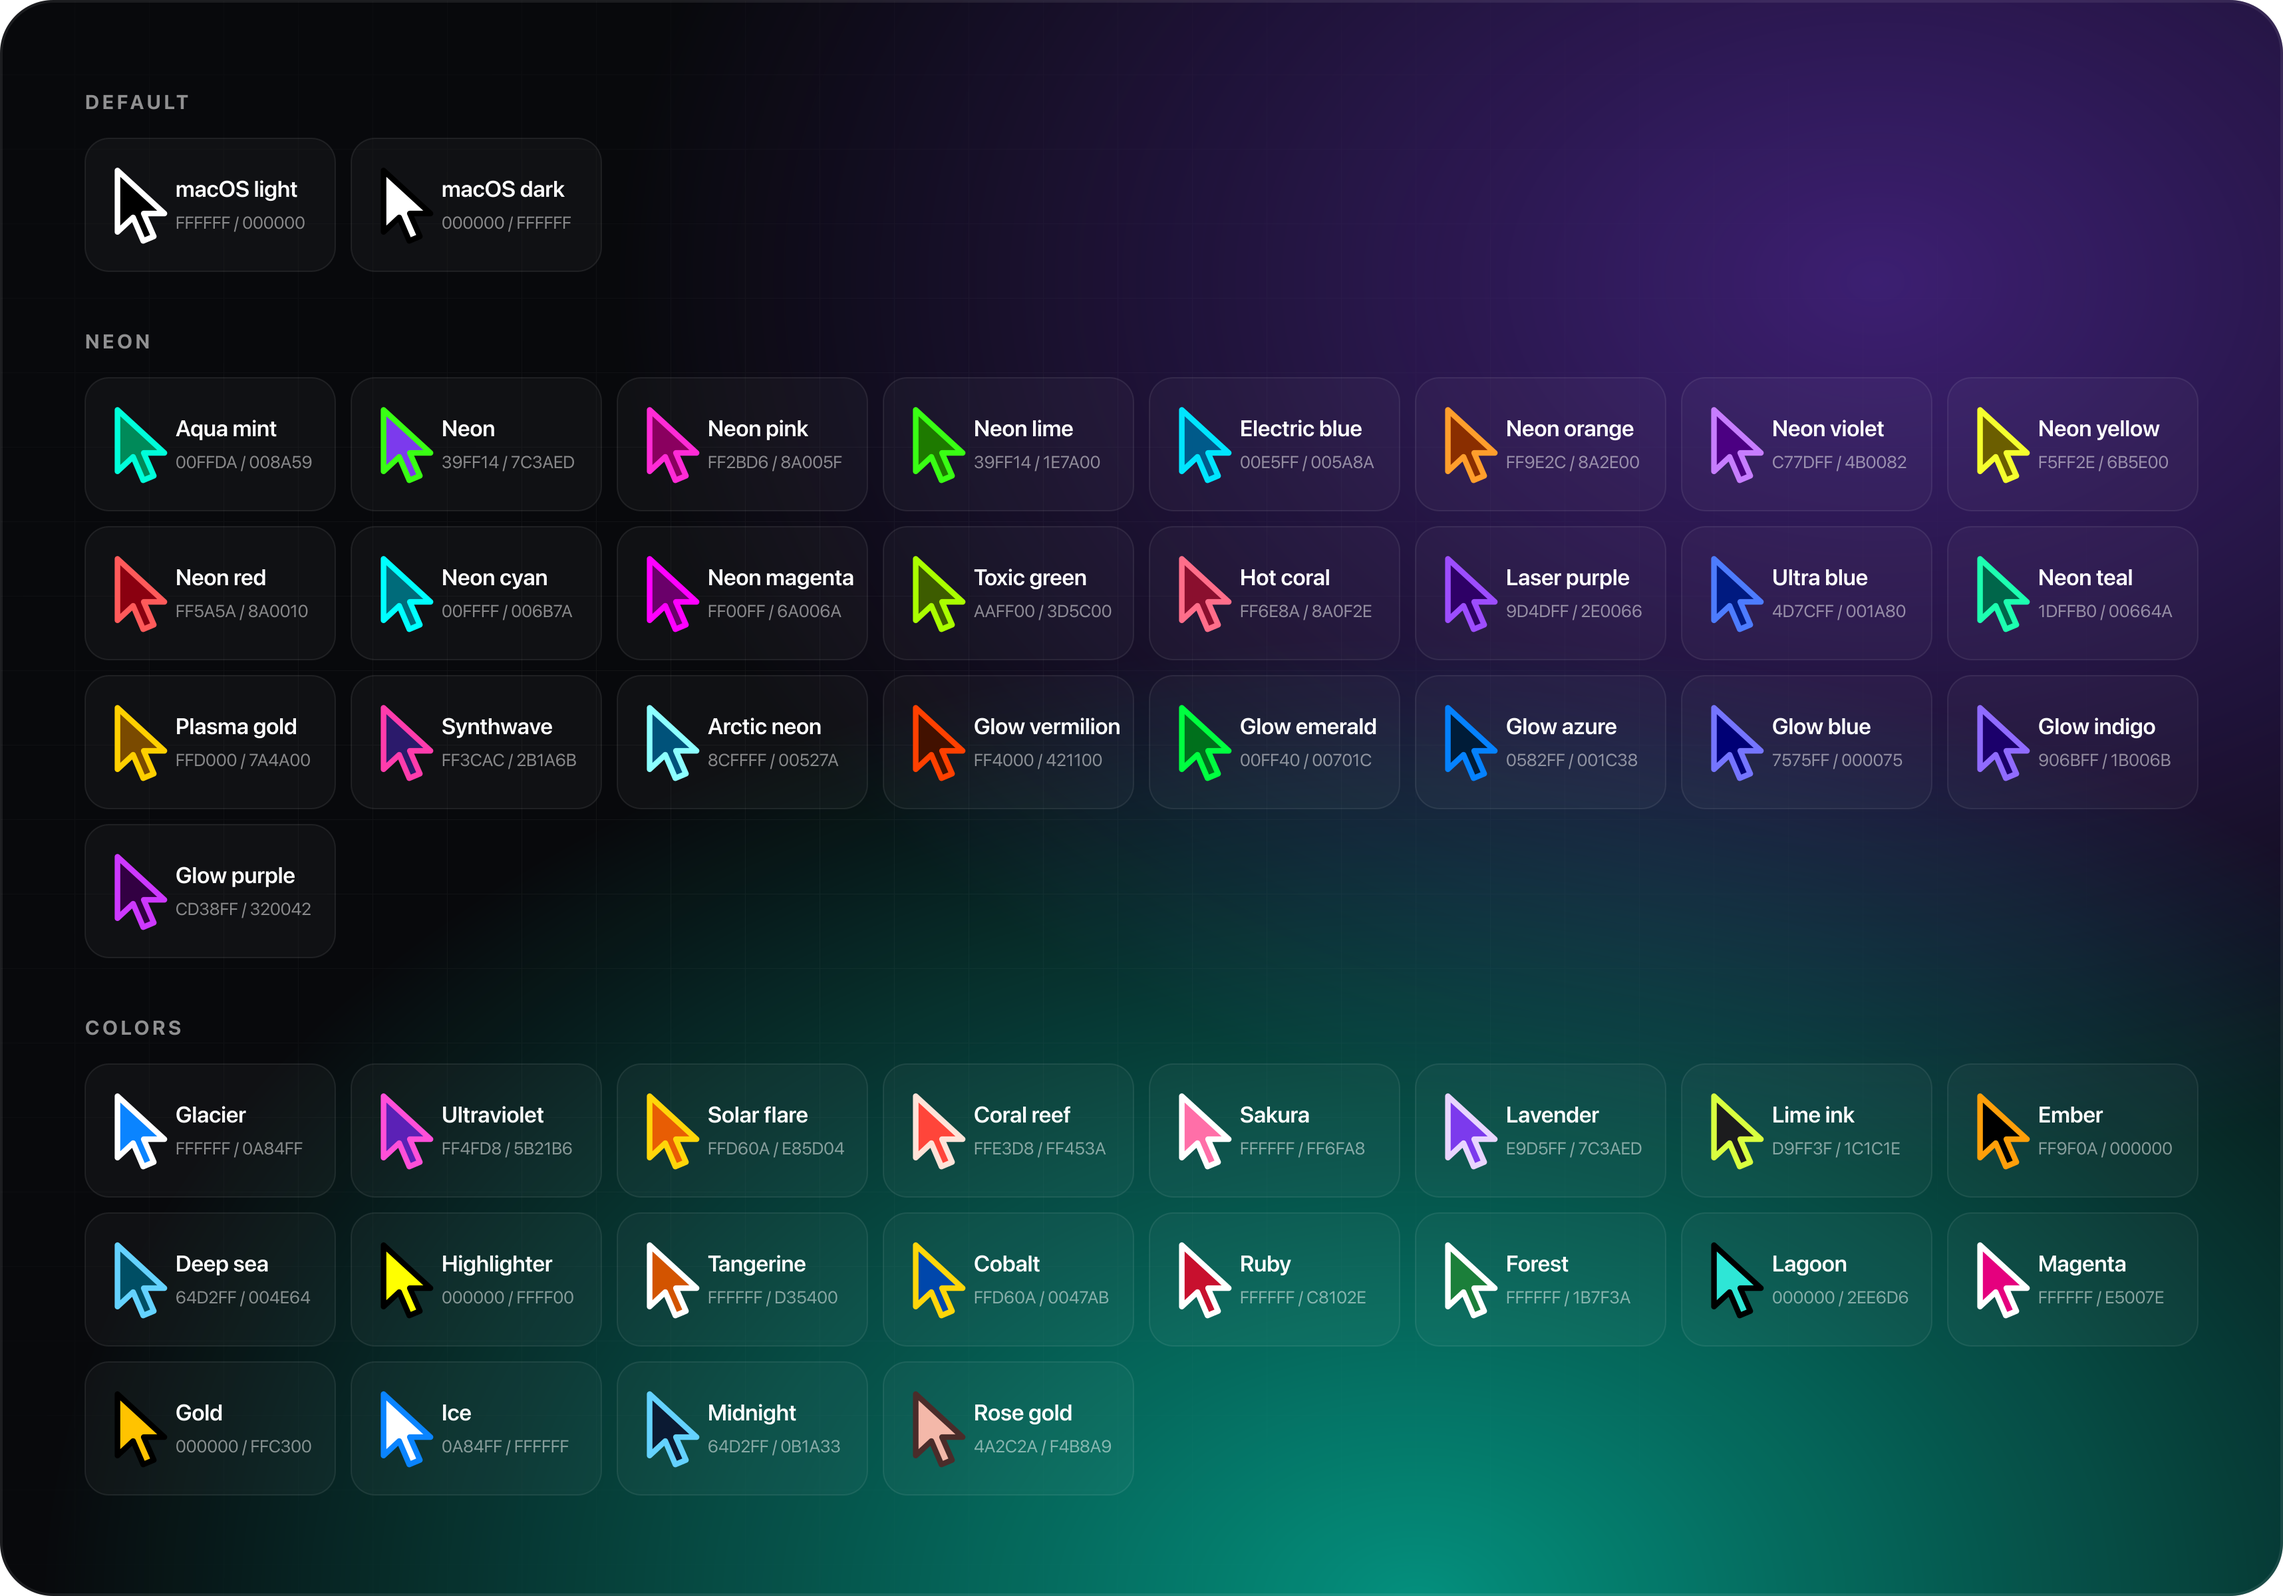
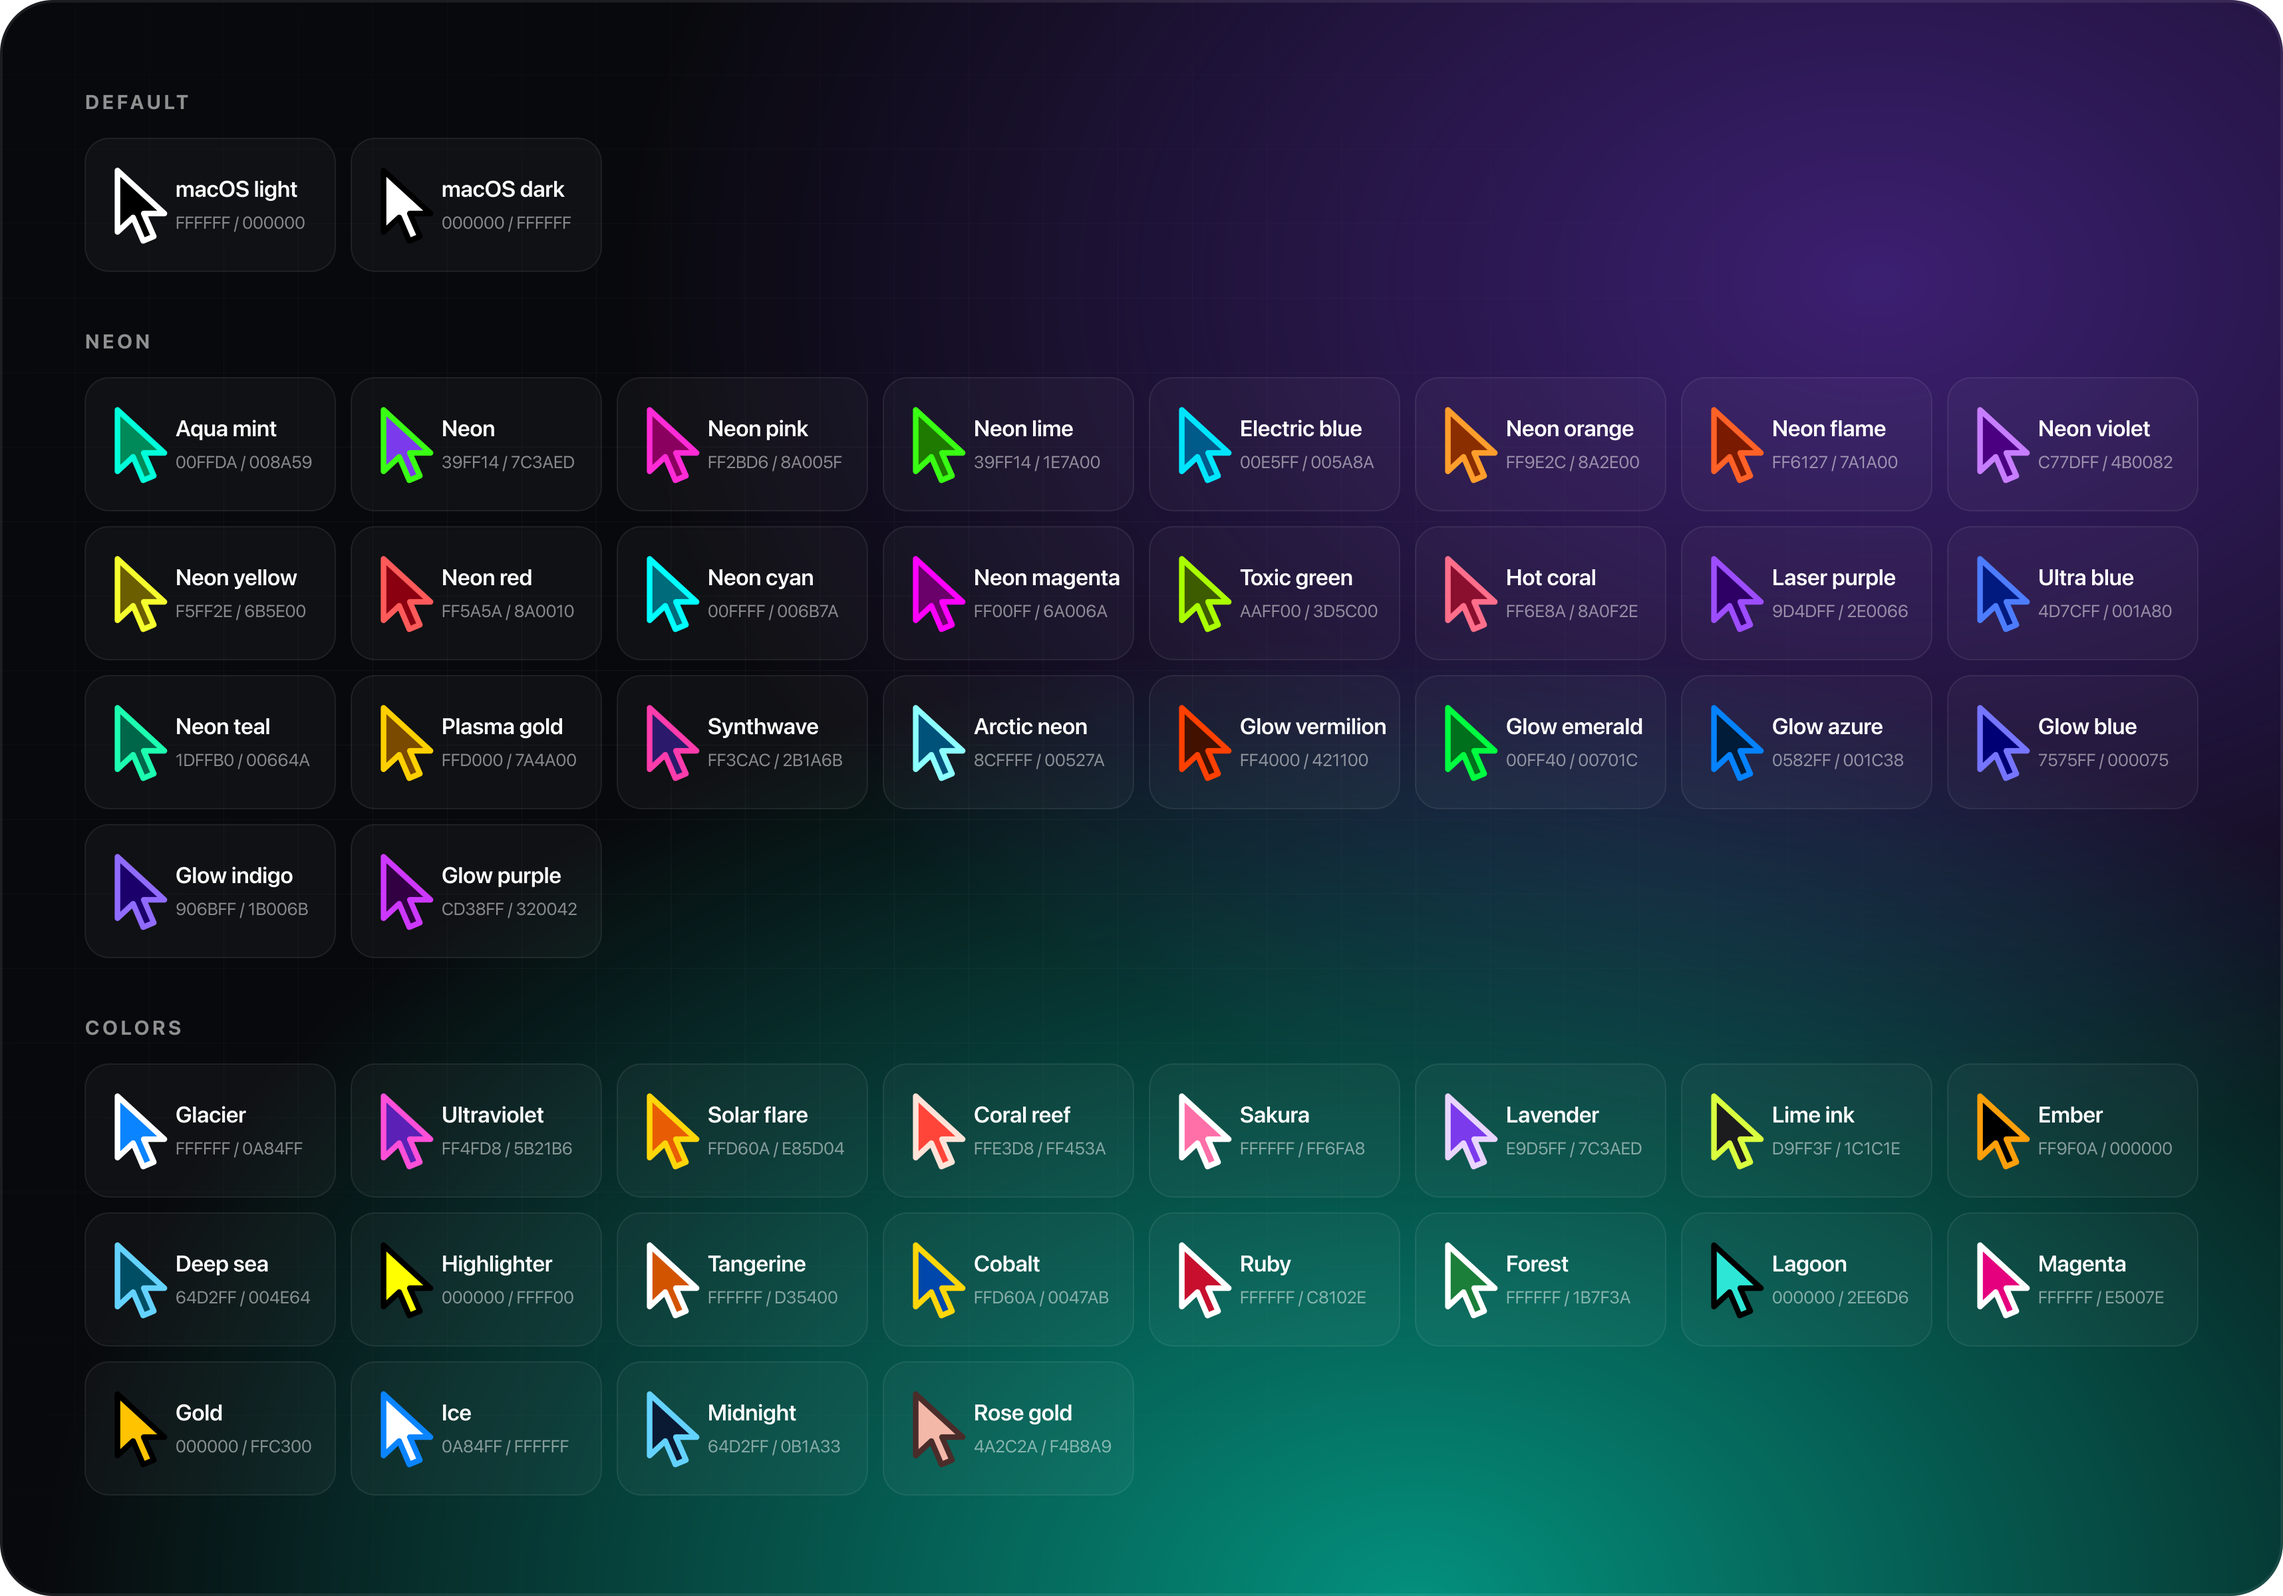
48 pairs: Neon flame in the README art, link preview and the site's pair count

diff --git a/index.html b/index.html
@@ -4,7 +4,7 @@
 <meta charset="utf-8">
 <meta name="viewport" content="width=device-width, initial-scale=1, viewport-fit=cover">
 <title>Mac Pointer Colors: change your mouse cursor color and size on macOS</title>
-<meta name="description" content="Change the mouse pointer (cursor) color and size on your Mac. 47 outline and fill color pairs with a live preview, hex codes for System Settings, and a free macOS menu-bar app that applies them in one click.">
+<meta name="description" content="Change the mouse pointer (cursor) color and size on your Mac. 48 outline and fill color pairs with a live preview, hex codes for System Settings, and a free macOS menu-bar app that applies them in one click.">
 <meta name="keywords" content="mac cursor color, change mouse pointer color mac, macOS pointer color, cursor size mac, custom cursor macOS, pointer outline color, pointer fill color, macOS accessibility, big cursor mac, menu bar app, highlight mouse clicks mac, laser pointer mac, cursor highlight screen recording, mouse acceleration mac, disable mouse acceleration macOS, pointer speed mac, find cursor mac, mouse back button safari, mouse side buttons mac, fix mouse double click, focus follows mouse mac">
 <meta name="author" content="Mostafa Abobakr">
 <meta name="theme-color" content="#08090c">
@@ -15,7 +15,7 @@
 <meta property="og:type" content="website">
 <meta property="og:site_name" content="Pointer Colors">
 <meta property="og:title" content="Mac Pointer Colors: change your mouse cursor color and size">
-<meta property="og:description" content="47 pointer color pairs with a live preview, plus a free menu-bar app that applies them in one click.">
+<meta property="og:description" content="48 pointer color pairs with a live preview, plus a free menu-bar app that applies them in one click.">
 <meta property="og:url" content="https://macos-pointer-colors.pages.dev/">
 <meta property="og:image" content="https://macos-pointer-colors.pages.dev/docs/og-image.png">
 <meta property="og:image:secure_url" content="https://macos-pointer-colors.pages.dev/docs/og-image.png">
@@ -27,7 +27,7 @@
 <meta property="og:locale:alternate" content="ar_AR">
 <meta name="twitter:card" content="summary_large_image">
 <meta name="twitter:title" content="Mac Pointer Colors: change your mouse cursor color and size">
-<meta name="twitter:description" content="47 pointer color pairs with a live preview, plus a free menu-bar app that applies them in one click.">
+<meta name="twitter:description" content="48 pointer color pairs with a live preview, plus a free menu-bar app that applies them in one click.">
 <meta name="twitter:image" content="https://macos-pointer-colors.pages.dev/docs/og-image.png">
 <meta name="twitter:image:alt" content="Pointer Colors: your pointer, one click away">
 <script type="application/ld+json">
@@ -39,7 +39,7 @@
       "name": "Pointer Colors",
       "description": "A free macOS menu-bar app that changes the mouse pointer outline color, fill color and size, with per-display and per-app pairs. It also highlights clicks, draws with a laser pointer, sets or turns off mouse acceleration, makes side buttons go back and forward in every app, fixes accidental double-clicks, focuses the window under the pointer, and finds the pointer with a double press of Control.",
       "featureList": [
-        "47 pointer outline and fill color pairs, applied in one click",
+        "48 pointer outline and fill color pairs, applied in one click",
         "Pointer size, with a different size on each display",
         "A pair for each display and each app",
         "Switches pairs with light and dark appearance",
@@ -396,7 +396,7 @@ html[dir="rtl"] .shot:hover img{transform:none}
         </button>
       </div>
       <dl class="stats">
-        <div><dt id="statCount">47</dt><dd data-i18n="statPairs">color pairs</dd></div>
+        <div><dt id="statCount">48</dt><dd data-i18n="statPairs">color pairs</dd></div>
         <div><dt>4</dt><dd data-i18n="statBg">test backgrounds</dd></div>
         <div><dt>1</dt><dd data-i18n="statClick">click to apply</dd></div>
       </dl>

diff --git a/README.md b/README.md
@@ -33,7 +33,7 @@
   <br><sub><a href="https://macos-pointer-colors.pages.dev/docs/promo/pointer-colors-promo.mp4"><b>▶ Watch the 30-second film</b></a></sub>
 </p>
 
-**Change the mouse pointer color and size on your Mac.** macOS lets you recolor the cursor, but only through two hex fields buried in System Settings. **Pointer Colors** gives you 47 outline and fill color pairs to try on a live preview, and a free menu-bar app that applies one in a single click. The app also highlights your clicks for screen recordings, draws with a laser pointer, sets or turns off mouse acceleration, makes the mouse's side buttons go back and forward in Safari and Finder, stops accidental double-clicks, focuses the window under the pointer, and finds a lost cursor with a double press of Control. It works on macOS Sonoma, Sequoia and Tahoe, and helps with low vision, big screens, presentations and screen recordings.
+**Change the mouse pointer color and size on your Mac.** macOS lets you recolor the cursor, but only through two hex fields buried in System Settings. **Pointer Colors** gives you 48 outline and fill color pairs to try on a live preview, and a free menu-bar app that applies one in a single click. The app also highlights your clicks for screen recordings, draws with a laser pointer, sets or turns off mouse acceleration, makes the mouse's side buttons go back and forward in Safari and Finder, stops accidental double-clicks, focuses the window under the pointer, and finds a lost cursor with a double press of Control. It works on macOS Sonoma, Sequoia and Tahoe, and helps with low vision, big screens, presentations and screen recordings.
 
 ## Two ways to use it
 
@@ -74,7 +74,7 @@
 Every feature has its own setting in Preferences, so you turn on only what you need.
 
 **Pointer color and size**
-- **Every pair, one click away**: pick one of 47 pairs in the menu bar and the pointer changes right away.
+- **Every pair, one click away**: pick one of 48 pairs in the menu bar and the pointer changes right away.
 - **Any pointer size**: drag to make the cursor bigger, or give each display its own size.
 - **Preview before you pick**: see the pointer on light pages, dark apps, photos and spreadsheets.
 - **Contrast warnings**: the menu tells you when a pair is hard to see. Turn on the current pair at the top of the menu, in Preferences › Appearance, to copy its hex codes.
